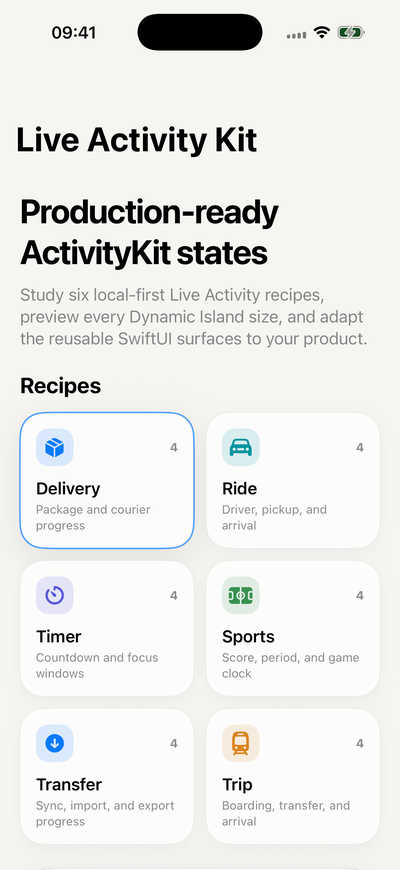
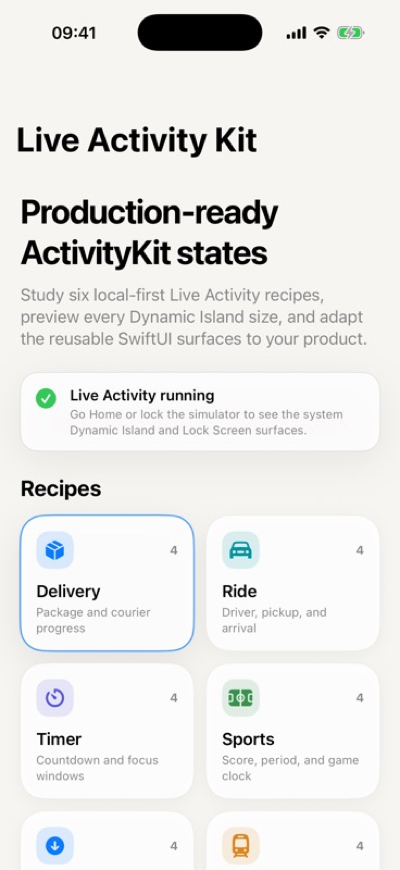
Stabilize live activity status card

diff --git a/Examples/LiveActivityDemo/LiveActivityDemo/LiveActivityDemoController.swift b/Examples/LiveActivityDemo/LiveActivityDemo/LiveActivityDemoController.swift
@@ -36,6 +36,14 @@ final class LiveActivityDemoController {
         ActivityAuthorizationInfo().areActivitiesEnabled
     }
 
+    var statusMessage: DemoMessage {
+        message ?? DemoMessage(
+            title: "Ready for local preview",
+            detail: "Choose a recipe, press Start, then check the Lock Screen or Dynamic Island.",
+            style: .neutral
+        )
+    }
+
     func select(_ scenario: LiveActivityScenario) {
         withTransaction(Transaction(animation: nil)) {
             selectedScenario = scenario
@@ -75,8 +83,6 @@ final class LiveActivityDemoController {
         await endActivity(showMessage: false)
 
         do {
-            let startIndex = min(1, selectedRecipe.states.count - 1)
-            selectedStateIndex = startIndex
             let model = currentModel.liveTimelineSnapshot()
             let attributes = LiveActivityAttributes(
                 scenario: model.scenario,
@@ -155,8 +161,31 @@ final class LiveActivityDemoController {
 
 struct DemoMessage: Identifiable, Equatable {
     enum Style {
+        case neutral
         case success
         case warning
+
+        var symbolName: String {
+            switch self {
+            case .neutral:
+                "sparkles"
+            case .success:
+                "checkmark.circle.fill"
+            case .warning:
+                "exclamationmark.triangle.fill"
+            }
+        }
+
+        var tint: Color {
+            switch self {
+            case .neutral:
+                .blue
+            case .success:
+                .green
+            case .warning:
+                .orange
+            }
+        }
     }
 
     let id = UUID()

diff --git a/Examples/LiveActivityDemo/LiveActivityDemo/DemoRootView.swift b/Examples/LiveActivityDemo/LiveActivityDemo/DemoRootView.swift
@@ -9,6 +9,10 @@ struct DemoRootView: View {
             ScrollView {
                 VStack(alignment: .leading, spacing: 24) {
                     hero
+                    ActivityStatusCard(message: controller.statusMessage)
+                        .transaction { transaction in
+                            transaction.animation = nil
+                        }
                     ScenarioGalleryView(controller: controller)
                     ScenarioDetailView(controller: controller)
                 }
@@ -16,15 +20,6 @@ struct DemoRootView: View {
                 .padding(.vertical, 24)
             }
             .background(DemoBackground())
-            .overlay(alignment: .top) {
-                if let message = controller.message {
-                    MessageCard(message: message)
-                        .padding(.horizontal, 20)
-                        .padding(.top, 12)
-                        .allowsHitTesting(false)
-                        .transition(.opacity)
-                }
-            }
             .navigationTitle("Live Activity Kit")
         }
     }
@@ -50,13 +45,15 @@ struct DemoBackground: View {
     }
 }
 
-struct MessageCard: View {
+struct ActivityStatusCard: View {
     var message: DemoMessage
 
     var body: some View {
         HStack(alignment: .top, spacing: 12) {
-            Image(systemName: message.style == .success ? "checkmark.circle.fill" : "exclamationmark.triangle.fill")
-                .foregroundStyle(message.style == .success ? .green : .orange)
+            Image(systemName: message.style.symbolName)
+                .foregroundStyle(message.style.tint)
+                .font(.title3.weight(.semibold))
+                .frame(width: 24, height: 24)
             VStack(alignment: .leading, spacing: 3) {
                 Text(message.title)
                     .font(.subheadline.weight(.semibold))
@@ -69,8 +66,8 @@ struct MessageCard: View {
         .padding(14)
         .background(
             RoundedRectangle(cornerRadius: 18, style: .continuous)
-                .fill(.background.opacity(0.94))
-                .shadow(color: .black.opacity(0.12), radius: 24, y: 12)
+                .fill(.background.opacity(0.82))
+                .shadow(color: .black.opacity(0.08), radius: 20, y: 10)
         )
         .overlay(
             RoundedRectangle(cornerRadius: 18, style: .continuous)